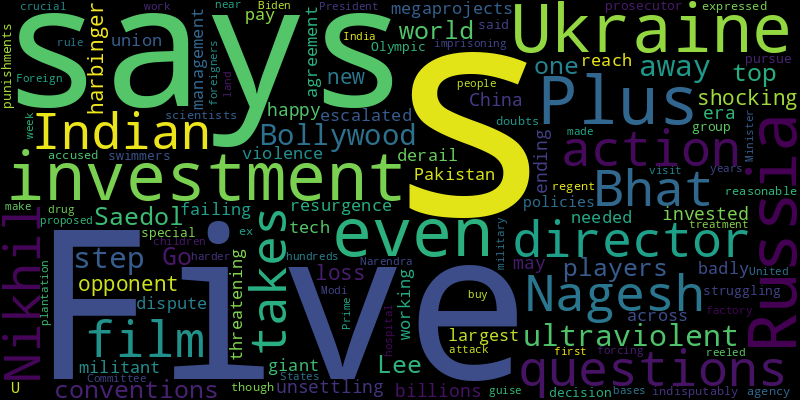
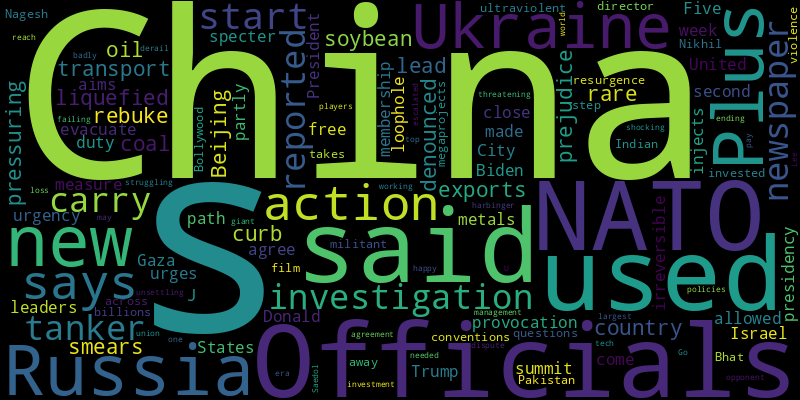
chore(bot): 😱 auto commit

diff --git a/README.md b/README.md
@@ -2,41 +2,41 @@
 Auto RSS New York Times and Generate Word Cloud
 
 ## New York Times Global News
-* Health authorities in the territory said dozens more had been injured, many critically. Israel said it had targeted a Hamas member who took part in the Oct. 7 attacks.
-* Amos Hochstein, an energy policy official who was born in Israel, is playing diplomatic firefighter along the Israel-Lebanon border.
-* A coarsening of public discourse and contempt for mainstream parties have politicians on both sides denouncing what they say are extreme positions by their opponents, analysts say.
-* Archaeologists unearthed some 4,000 ancient skeletons from the heart of the city. After years of study, they were reinterred in a rare and solemn tribute.
-* Britain gave Rwanda hundreds of millions of pounds, even though no asylum seekers were deported to the Central African nation under the agreement.
-* A century ago, Alice Milliat fought for the inclusion of female athletes in the Olympics. Her contribution, long overlooked, is now being recognized.
-* With thousands of voices and a few well-choreographed dance moves, Dutch fans have transformed match days into pulsing, joyous celebrations. Their next one is Wednesday.
-* Many Venezuelans who left their homeland oppose the country’s autocratic president, but strict requirements will prevent most from voting in a closely watched election.
+* The militant group’s leader says “the only way” to stop the hostilities across the Lebanon-Israel border is to negotiate an end to the fighting in Gaza.
+* Cairo now houses tens of thousands of Palestinians who fled the war in Gaza, with few job prospects, dwindling savings and no way to put their children in the local public schools.
+* NATO’s rare rebuke of China could lead to actions pressuring the country to curb exports to Russia. Beijing denounced it as “prejudice, smears and provocation.”
+* The government promised housing elsewhere. We followed the buses and found a desperate situation.
+* British Columbia’s partial retreat from an experiment to decriminalize drug possession reveals a political shift in Canada over combating the opioid crisis.
+* Burkina Faso, Mali and Niger are withdrawing from a 49-year-old regional alliance that has allowed goods and nearly 400 million people to travel freely across a tightly connected region.
 * Lee Saedol was one of the world’s top Go players, and his shocking loss to an A.I. opponent was a harbinger of a new, unsettling era. “It may not be a happy ending,” he says.
-* China has invested billions in megaprojects across Pakistan. But a resurgence in militant violence is threatening to derail badly needed investment.
+* Britain gave Rwanda hundreds of millions of pounds, even though no asylum seekers were deported to the Central African nation under the agreement.
+* Amos Hochstein, an energy policy official who was born in Israel, is playing diplomatic firefighter along the Israel-Lebanon border.
+* In an open letter, the French president rejected any role in government for the far-left France Unbowed party, setting the stage for a heated showdown.
 
 ![Global](./global.png)
 ## New York Times United States News
-* With outages expected to last days, a top state official promised to look into whether the utility company could have done more to prepare for Hurricane Beryl.
-* Across the country, copper and other valuable materials have been stolen from streetlights, statues and even gravesites, costing millions to repair.
-* A donation from Bloomberg Philanthropies will provide free tuition for Johns Hopkins medical students, if their families make less than $300,000 a year.
-* With no working outage tracker from the Houston area’s main electricity provider, people are turning to the chain’s map of open restaurants after Hurricane Beryl.
-* Donald J. Trump’s monthslong search for a running mate, orchestrated to feed speculation and attention, is nearing an end, but questions of who, and when, remain.
-* Time is on President Biden’s side. Every day that he defies pressure to end his re-election campaign, replacing him becomes harder for Democrats.
-* Amos Hochstein, an energy policy official who was born in Israel, is playing diplomatic firefighter along the Israel-Lebanon border.
-* The Times wants to hear from patients and providers about medical practices affiliated with Optum, a subsidiary of UnitedHealth Group. Share your experience below.
-* “America doesn’t shy away from its friends,” Volodymyr Zelensky said in a speech in Washington as leaders gathered in the city for a NATO summit.
-* Speaking to nearly 200 Democratic mayors, the president again acknowledged he had a poor first debate and took softball questions about his campaign and second-term agenda.
+* The state has voted for the Democratic nominee for president for two decades. But a new poll shows a loss of support, and some fed-up voters are considering alternatives.
+* The health care system in Houston, where more than a million customers lack power, was overwhelmed because some patients couldn’t be discharged amid a punishing heat wave.
+* The state has had more than 3,500 wildfires this year, and the peak of the annual fire season has yet to arrive.
+* The Arkansas secretary of state said that the group collecting signatures to put an abortion-rights amendment on the ballot had failed to submit some of the necessary paperwork.
+* As leaders gathered in Washington to mark the anniversary of the organization, they heard starkly different messages from two American presidents on NATO’s future.
+* The president’s allies, doubters and enemies will be watching for any evidence of stumbles as he fields questions from reporters.
+* A set of conservative policy proposals called Project 2025 has put into words what a second term for Donald J. Trump could look like. Trump has distanced himself from the plan, but it aligns with many of his campaign promises. Political reporter, Jonathan Swan, explains.
+* The Biden campaign has attacked Donald J. Trump’s ties to the conservative policy plan that would amass power in the executive branch, though it is not his official platform.
+* ‘It’s a catastrophe,’ said the senator from Vermont, becoming the first Democrat from that chamber to publicly say the president should step aside.
+* A federal judge in Tennessee said that it was unconstitutional for the City of Lakeland, Tenn., to fine Julie Pereira for the sign she posted expressing disapproval of President Biden and Donald J. Trump.
 
 ![US](./usnews.png)
 ## New York Times Asia News
+* Officials said they would start an investigation after a newspaper reported that a tanker used to carry liquefied coal was then used to transport soybean oil.
+* NATO’s rare rebuke of China could lead to actions pressuring the country to curb exports to Russia. Beijing denounced it as “prejudice, smears and provocation.”
+* Plus, Israel urges Gaza City to evacuate.
+* The specter of a second Donald J. Trump presidency injects new urgency into the NATO summit this week. President Biden and other leaders agree Ukraine should have an “irreversible” path to membership.
+* The measure aims to close a loophole that officials said allowed metals made partly in China to come into the United States duty free.
 * Five questions for the director Nikhil Nagesh Bhat about his Indian action film, which takes an ultraviolent step away from Bollywood conventions.
-* Lee Saedol was one of the world’s top Go players, and his shocking loss to an A.I. opponent was a harbinger of a new, unsettling era. “It may not be a happy ending,” he says.
 * China has invested billions in megaprojects across Pakistan. But a resurgence in militant violence is threatening to derail badly needed investment.
+* Lee Saedol was one of the world’s top Go players, and his shocking loss to an A.I. opponent was a harbinger of a new, unsettling era. “It may not be a happy ending,” he says.
 * The tech giant’s largest union escalated its dispute with management after failing to reach an agreement over pay and working policies.
 * Plus, the U.S. says Russia is struggling in Ukraine.
-* A special prosecutor said the decision not to pursue punishments against a group of Olympic swimmers was “indisputably reasonable,” even though agency scientists had expressed doubts.
-* The ex-regent had been accused of imprisoning hundreds of people under the guise of drug treatment and forcing them to work at his plantation and factory.
-* Prime Minister Narendra Modi of India made his first visit to Russia in five years, even as Ukraine reeled from an attack on a children’s hospital.
-* Plus, President Biden’s crucial week.
-* The Committee on Foreign Investment in the United States proposed a rule that would make it harder for foreigners to buy land near military bases.
 
 ![Asian](./asian.png)
